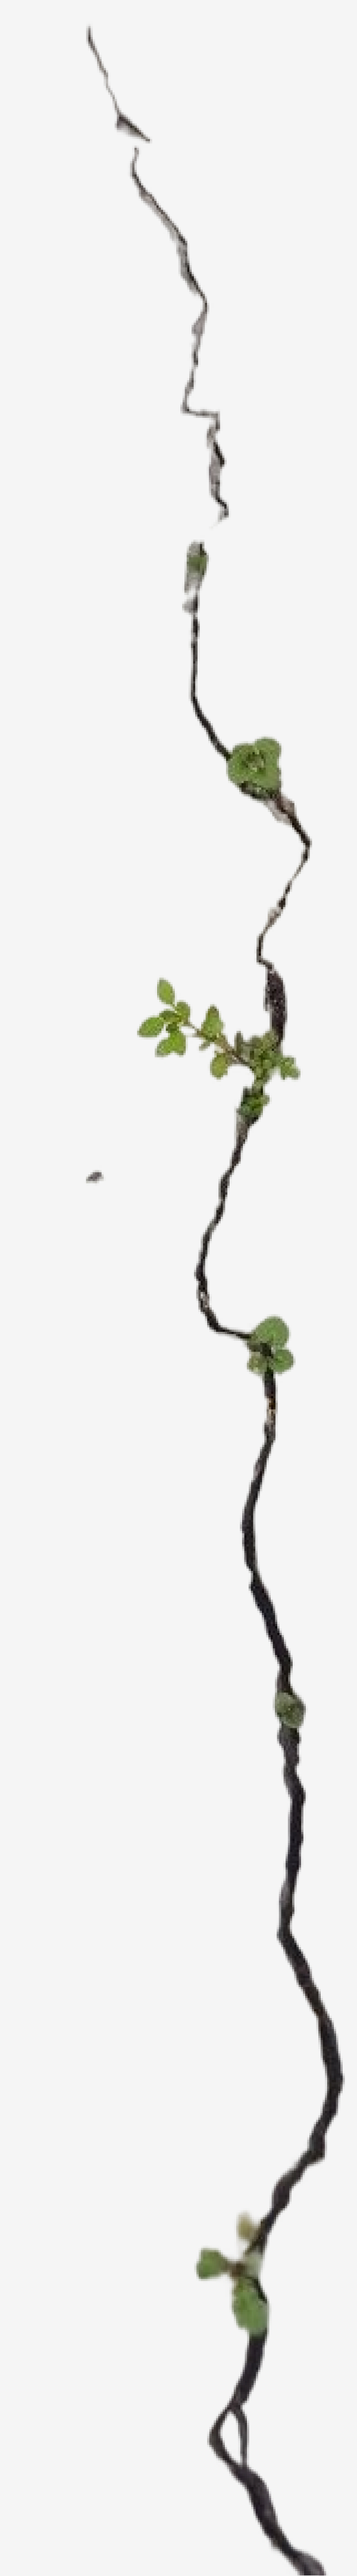
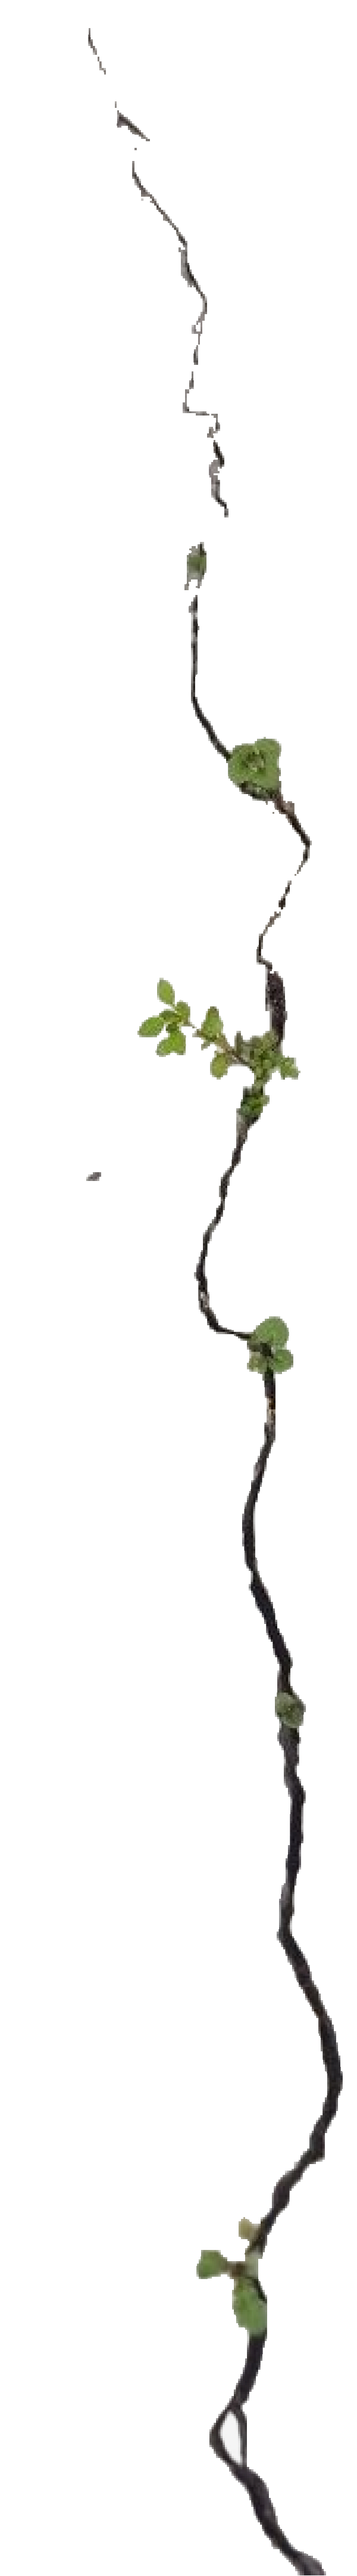
Transparent artwork, growing hero, per-section intros
Figma renders a node export onto the page colour, so every asset pulled that
way was fully opaque. The nav icons showed as grey rectangles, and the vine
sat as an opaque block over the section panels beneath it.

The nav plants now use the transparent source photographs and reproduce
Figma's crop with the percentages it reports, rather than a pre-flattened
thumbnail. The hero artwork, the vine and the wordmark had their backgrounds
removed by flood-filling inwards from the border, which only clears
background actually connected to the edge and so leaves the white flowers and
pale leaves intact — a plain colour key punched holes straight through them.

The hero artwork grows out of the crack as the page scrolls, between the
resting state and the scrolled state in the design. It runs on a scroll
progress timeline, so there is no scroll listener and no JavaScript; browsers
without `animation-timeline` hold the resting state, as does anyone who asked
for reduced motion.

Hero geometry is expressed as percentages of the design's 1280x694 block,
measured off the full-resolution render, so the composition holds at any
width while matching the design at desktop.

Each home section also carries its own tagline and intro. They previously
shared one, which the scrolled design shows is wrong: study groups and
happenings each have their own.

diff --git a/src/app/[lang]/page.tsx b/src/app/[lang]/page.tsx
@@ -1,7 +1,7 @@
 import type { Metadata } from "next";
 import Image from "next/image";
 import { asLang, t } from "@/lib/i18n";
-import { getEvents, getPodcasts, getSiteSettings } from "@/lib/sanity";
+import { getEvents, getPodcasts, getSiteSettings, type SectionIntro } from "@/lib/sanity";
 import { buildMetadata } from "@/lib/seo";
 import { UI } from "@/i18n/ui";
 import { EventCard } from "@/components/EventCard";
@@ -9,9 +9,8 @@ import { HappeningCard } from "@/components/HappeningCard";
 import { PodcastItem } from "@/components/PodcastItem";
 import { SectionHeader } from "@/components/SectionHeader";
 import { ExpandableIntro } from "@/components/ExpandableIntro";
-import { LanguageSwitch } from "@/components/LanguageSwitch";
+import { Hero } from "@/components/Hero";
 
-import wordmark from "../../../public/design/wordmark.png";
 import vine from "../../../public/design/vine.png";
 
 type Props = { params: Promise<{ lang: string }> };
@@ -34,12 +33,13 @@ export default async function HomePage({ params }: Props) {
   ]);
 
   const [featured, ...rest] = podcasts;
-  const eyebrow = t(settings?.sectionEyebrow, lang);
-  const intro = (
-    <ExpandableIntro
-      short={t(settings?.sectionIntroShort, lang)}
-      full={t(settings?.sectionIntroFull, lang)}
-      lang={lang}
+
+  /** Each section has its own tagline and intro in the design. */
+  const header = (title: string, intro?: SectionIntro) => (
+    <SectionHeader
+      title={title}
+      eyebrow={t(intro?.eyebrow, lang)}
+      intro={<ExpandableIntro short={t(intro?.short, lang)} full={t(intro?.full, lang)} lang={lang} />}
     />
   );
 
@@ -54,15 +54,10 @@ export default async function HomePage({ params }: Props) {
         className="pointer-events-none absolute top-[520px] right-[-40px] z-0 hidden w-[300px] max-w-none select-none lg:block"
       />
 
-      <header className="relative z-10 mx-auto flex max-w-[1120px] items-start gap-6 px-6 pt-10 pb-16 lg:pt-16 lg:pb-24">
-        <h1 className="min-w-0 flex-1">
-          <Image src={wordmark} alt={settings?.siteName ?? "Ruderal"} priority className="w-full" />
-        </h1>
-        <LanguageSwitch lang={lang} className="shrink-0 pt-2" />
-      </header>
+      <Hero lang={lang} siteName={settings?.siteName ?? "Ruderal"} />
 
       <section id="podcasts" className="relative z-10 flex flex-col items-center gap-[60px] pb-24">
-        <SectionHeader title={UI.nav.podcasts[lang]} eyebrow={eyebrow} intro={intro} />
+        {header(UI.nav.podcasts[lang], settings?.podcastsIntro)}
         {featured && (
           <div className="mx-auto flex w-full max-w-[1120px] flex-col gap-10 px-6 lg:flex-row lg:items-start">
             <PodcastItem podcast={featured} lang={lang} featured />
@@ -80,11 +75,7 @@ export default async function HomePage({ params }: Props) {
       </section>
 
       <section id="study-groups" className="relative z-10 flex flex-col items-center gap-[60px] pb-24">
-        <SectionHeader
-          title={UI.nav.studyGroups[lang]}
-          eyebrow={eyebrow}
-          intro={intro}
-        />
+        {header(UI.nav.studyGroups[lang], settings?.studyGroupsIntro)}
         {/* The design runs the posters off the right edge as a scrolling row. */}
         <ul className="flex w-full snap-x gap-[42px] overflow-x-auto px-6 pb-4 lg:px-[80px]">
           {studyGroups.map((event) => (
@@ -96,11 +87,7 @@ export default async function HomePage({ params }: Props) {
       </section>
 
       <section id="happenings" className="relative z-10 flex flex-col items-center gap-[60px] pb-16">
-        <SectionHeader
-          title={UI.nav.happenings[lang]}
-          eyebrow={eyebrow}
-          intro={intro}
-        />
+        {header(UI.nav.happenings[lang], settings?.happeningsIntro)}
         <ul className="mx-auto flex w-full max-w-[1120px] flex-col gap-10 px-6">
           {happenings.map((event) => (
             <li key={event._id}>

diff --git a/src/components/Nav.tsx b/src/components/Nav.tsx
@@ -1,23 +1,21 @@
-import Image from "next/image";
 import Link from "next/link";
 import type { Lang } from "@/lib/i18n";
 import { UI } from "@/i18n/ui";
-
-import navLeaf from "../../public/design/nav-leaf.png";
-import navGrass from "../../public/design/nav-grass.png";
+import { PlantIcon } from "./PlantIcon";
 
 /** Order, labels and icons come from the Figma nav (0:290 desktop, 15:207 mobile). */
-const items = (lang: Lang) => [
-  { href: `/${lang}#podcasts`, label: UI.nav.podcasts[lang], icon: navLeaf },
-  { href: `/${lang}#study-groups`, label: UI.nav.studyGroups[lang], icon: navGrass },
-  { href: `/${lang}#happenings`, label: UI.nav.happenings[lang], icon: navLeaf },
-  { href: `/${lang}/about`, label: UI.nav.about[lang], icon: navLeaf },
-];
+const items = (lang: Lang) =>
+  [
+    { href: `/${lang}#podcasts`, label: UI.nav.podcasts[lang], icon: "fern" },
+    { href: `/${lang}#study-groups`, label: UI.nav.studyGroups[lang], icon: "dandelion" },
+    { href: `/${lang}#happenings`, label: UI.nav.happenings[lang], icon: "fern" },
+    { href: `/${lang}/about`, label: UI.nav.about[lang], icon: "fern" },
+  ] as const;
 
 /**
  * One nav at both sizes. The design stacks the icon above the label on mobile
  * and sets the label upright there, then puts them side by side in italic on
- * desktop — so this is a layout change, not a separate menu.
+ * desktop — a layout change at the breakpoint, not a second component.
  */
 export function Nav({ lang }: { lang: Lang }) {
   return (
@@ -29,13 +27,7 @@ export function Nav({ lang }: { lang: Lang }) {
               href={href}
               className="flex flex-col items-center justify-center gap-[3.429px] py-2 md:flex-row md:items-center"
             >
-              <Image
-                src={icon}
-                alt=""
-                aria-hidden
-                className="h-[25px] w-[39px] shrink-0 object-contain"
-                unoptimized
-              />
+              <PlantIcon variant={icon} />
               <span className="text-[14px] font-bold tracking-[-0.32px] whitespace-nowrap sm:text-[16px] md:italic">
                 {label}
               </span>

diff --git a/sanity/schemas/documents.ts b/sanity/schemas/documents.ts
@@ -188,24 +188,10 @@ export const siteSettings = defineType({
   type: "document",
   fields: [
     defineField({ name: "siteName", type: "string", initialValue: "Ruderal" }),
-    defineField({
-      name: "sectionEyebrow",
-      title: "Section tagline",
-      type: "localeString",
-      description: "The bold line above the intro, repeated at the top of every home section.",
-    }),
-    defineField({
-      name: "sectionIntroShort",
-      title: "Section intro (short)",
-      type: "localeText",
-      description: "Shown by default under the tagline.",
-    }),
-    defineField({
-      name: "sectionIntroFull",
-      title: "Section intro (full)",
-      type: "localeText",
-      description: 'Revealed when a visitor clicks "More". Leave empty to hide the link.',
-    }),
+    // Each home section carries its own tagline and intro in the design.
+    defineField({ name: "podcastsIntro", title: "Podcasts intro", type: "sectionIntro" }),
+    defineField({ name: "studyGroupsIntro", title: "Study groups intro", type: "sectionIntro" }),
+    defineField({ name: "happeningsIntro", title: "Happenings intro", type: "sectionIntro" }),
     defineField({ name: "footerBlurb", title: "Footer text", type: "localeText" }),
     defineField({ name: "email", type: "string" }),
     defineField({ name: "instagramUrl", title: "Instagram URL", type: "url" }),

diff --git a/src/components/PlantIcon.tsx b/src/components/PlantIcon.tsx
@@ -1,0 +1,34 @@
+/**
+ * The plant thumbnails in the nav (Figma 0:292 and 0:295).
+ *
+ * Figma's own node export bakes the page colour in behind the plant, so these
+ * use the transparent source photographs and reproduce Figma's crop with the
+ * same percentages it reports.
+ */
+export function PlantIcon({ variant }: { variant: "fern" | "dandelion" }) {
+  if (variant === "dandelion") {
+    return (
+      <span aria-hidden className="flex h-[24px] w-[42px] shrink-0 items-center justify-center">
+        <span className="relative block h-[42px] w-[24px] -rotate-90 overflow-hidden">
+          {/* eslint-disable-next-line @next/next/no-img-element */}
+          <img
+            src="/design/plant-dandelion.png"
+            alt=""
+            className="absolute top-[-4.86%] left-[-5%] h-[107.1%] w-[139.9%] max-w-none"
+          />
+        </span>
+      </span>
+    );
+  }
+
+  return (
+    <span aria-hidden className="relative block h-[25.26px] w-[39.469px] shrink-0 -scale-x-100 overflow-hidden">
+      {/* eslint-disable-next-line @next/next/no-img-element */}
+      <img
+        src="/design/plant-fern.png"
+        alt=""
+        className="absolute top-[-190.32%] left-[-43.67%] h-[395.56%] w-[190.18%] max-w-none"
+      />
+    </span>
+  );
+}

diff --git a/src/components/Hero.tsx b/src/components/Hero.tsx
@@ -1,0 +1,32 @@
+import Image from "next/image";
+import type { Lang } from "@/lib/i18n";
+import { LanguageSwitch } from "./LanguageSwitch";
+
+import wordmark from "../../public/design/wordmark.png";
+import heroGrowth from "../../public/design/hero-growth.png";
+
+/**
+ * Figma 0:32. Positions are percentages of the design's 1280×694 hero block,
+ * measured off the full-resolution render, so the composition holds at any
+ * width. The artwork deliberately runs past the block into the section below,
+ * as it does in the design, so nothing here clips.
+ */
+export function Hero({ lang, siteName }: { lang: Lang; siteName: string }) {
+  return (
+    <header className="relative z-10 aspect-[1280/694] w-full">
+      <LanguageSwitch lang={lang} className="absolute top-[3%] right-[6%] z-20" />
+
+      <h1 className="absolute top-[24.5%] left-[13.1%] w-[73.7%]">
+        <Image src={wordmark} alt={siteName} priority className="w-full" />
+      </h1>
+
+      <Image
+        src={heroGrowth}
+        alt=""
+        aria-hidden
+        priority
+        className="hero-grow pointer-events-none absolute top-[10.4%] left-[43.75%] w-[57.8%] max-w-none origin-[61%_49%] select-none"
+      />
+    </header>
+  );
+}

diff --git a/sanity/schemas/objects.ts b/sanity/schemas/objects.ts
@@ -28,6 +28,28 @@ export const localeString = localeType("localeString", "Text (translated)", "str
 export const localeText = localeType("localeText", "Paragraph (translated)", "text");
 export const localeBlock = localeType("localeBlock", "Rich text (translated)", "block");
 
+export const sectionIntro = defineType({
+  name: "sectionIntro",
+  title: "Section intro",
+  type: "object",
+  options: { collapsible: true, collapsed: true },
+  fields: [
+    defineField({
+      name: "eyebrow",
+      title: "Tagline",
+      type: "localeString",
+      description: "The bold line above the intro.",
+    }),
+    defineField({ name: "short", title: "Intro", type: "localeText" }),
+    defineField({
+      name: "full",
+      title: "Intro (expanded)",
+      type: "localeText",
+      description: 'Revealed by the "More" link. Leave empty to hide the link.',
+    }),
+  ],
+});
+
 export const seo = defineType({
   name: "seo",
   title: "Social sharing (OpenGraph)",

diff --git a/src/lib/sanity.ts b/src/lib/sanity.ts
@@ -86,11 +86,17 @@ export type Page = {
   seo?: Seo;
 };
 
+export type SectionIntro = {
+  eyebrow?: Locale<string>;
+  short?: Locale<string>;
+  full?: Locale<string>;
+};
+
 export type SiteSettings = {
   siteName?: string;
-  sectionEyebrow?: Locale<string>;
-  sectionIntroShort?: Locale<string>;
-  sectionIntroFull?: Locale<string>;
+  podcastsIntro?: SectionIntro;
+  studyGroupsIntro?: SectionIntro;
+  happeningsIntro?: SectionIntro;
   footerBlurb?: Locale<string>;
   email?: string;
   instagramUrl?: string;
@@ -137,7 +143,7 @@ export const getSiteSettings = () =>
   fetchOr<SiteSettings | null>(
     placeholderSettings,
     `*[_type == "siteSettings"][0] {
-      siteName, sectionEyebrow, sectionIntroShort, sectionIntroFull,
+      siteName, podcastsIntro, studyGroupsIntro, happeningsIntro,
       footerBlurb, email, instagramUrl, defaultSeo{ogTitle, ogDescription, ogImage}
     }`,
   );

diff --git a/src/app/globals.css b/src/app/globals.css
@@ -39,3 +39,28 @@ body {
   filter: drop-shadow(-2px -2px 3px rgba(0, 0, 0, 0.05))
     drop-shadow(2px 2px 3px rgba(0, 0, 0, 0.05));
 }
+
+/*
+ * The hero artwork grows out of the crack as the page scrolls (Figma 0:32 is
+ * the resting state, 0:574 the scrolled one). Driven by a scroll-progress
+ * timeline so it needs no JavaScript and no scroll listener; browsers without
+ * `animation-timeline` simply keep the resting state.
+ */
+@keyframes hero-grow {
+  from {
+    transform: scale(1);
+  }
+  to {
+    transform: scale(1.85);
+  }
+}
+
+@media (prefers-reduced-motion: no-preference) {
+  @supports (animation-timeline: scroll()) {
+    .hero-grow {
+      animation: hero-grow linear both;
+      animation-timeline: scroll(root block);
+      animation-range: 0 100svh;
+    }
+  }
+}

diff --git a/src/components/LeafPill.tsx b/src/components/LeafPill.tsx
@@ -1,14 +1,13 @@
-import Image from "next/image";
-import navLeaf from "../../public/design/nav-leaf.png";
+import { PlantIcon } from "./PlantIcon";
 
 /**
- * The small leaf-and-label pill the design reuses for the breadcrumb and the
+ * The small plant-and-label pill the design reuses for the breadcrumb and the
  * Subscribe button (Figma 0:1151 and 0:1175).
  */
 export function LeafPill({ children }: { children: React.ReactNode }) {
   return (
     <span className="flex items-center gap-[3.429px] py-2">
-      <Image src={navLeaf} alt="" aria-hidden className="h-[25px] w-[39px] object-contain" unoptimized />
+      <PlantIcon variant="fern" />
       <span className="text-[14px] font-bold italic tracking-[-0.28px]">{children}</span>
     </span>
   );

diff --git a/src/lib/placeholder.ts b/src/lib/placeholder.ts
@@ -60,11 +60,13 @@ const INTRO =
 
 export const placeholderSettings: SiteSettings = {
   siteName: "Ruderal",
-  sectionEyebrow: {
-    en: "Documenting Artistic Practices and Circulating Knowledge",
-    fr: "Documenter les pratiques artistiques et faire circuler les savoirs",
+  podcastsIntro: {
+    eyebrow: {
+      en: "Documenting Artistic Practices and Circulating Knowledge",
+      fr: "Documenter les pratiques artistiques et faire circuler les savoirs",
+    },
+    short: { en: INTRO, fr: INTRO },
   },
-  sectionIntroShort: { en: INTRO, fr: INTRO },
   footerBlurb: { en: BLURB, fr: BLURB },
   email: "hi.ruderal@gmail.com",
   instagramUrl: "https://instagram.com/",

diff --git a/src/app/[lang]/about/page.tsx b/src/app/[lang]/about/page.tsx
@@ -28,7 +28,7 @@ export default async function AboutPage({ params }: Props) {
   const lang = asLang(rawLang);
   const [page, settings] = await Promise.all([getPage("about"), getSiteSettings()]);
   const body = t(page?.body, lang) as PortableTextBlock[] | undefined;
-  const eyebrow = t(settings?.sectionEyebrow, lang);
+  const eyebrow = t(settings?.podcastsIntro?.eyebrow, lang);
 
   return (
     <article className="relative mx-auto my-10 w-full max-w-[1151px] px-4">

diff --git a/sanity/schemas/index.ts b/sanity/schemas/index.ts
@@ -1,4 +1,4 @@
-import { localeBlock, localeString, localeText, seo } from "./objects";
+import { localeBlock, localeString, localeText, sectionIntro, seo } from "./objects";
 import { documents } from "./documents";
 
-export const schemaTypes = [localeString, localeText, localeBlock, seo, ...documents];
+export const schemaTypes = [localeString, localeText, localeBlock, sectionIntro, seo, ...documents];
